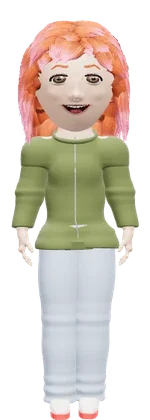
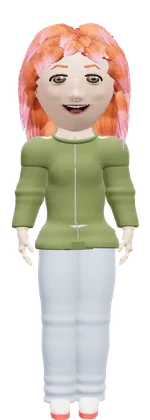
sumanova-us-107: natural hairline, visible partings, baby hairs and laid edges
- Edge + parting strip built as one shell; base cap uses the exact head-space
  direction only near the skin (skullDistDir, one pass)
- Measured vs us-106: hair build +29 %, triangles +1-15 % per style
- Starter pictures re-rendered; sculpt v100, thumbnails v39
- CLAUDE.md: user-story workflow and release naming

Claude-Session: https://claude.ai/code/session_011n7UBMF7siA6WHFHfiWuWV

Changed region(s): [[0.1067, 0.031, 0.88, 0.3714], [0.6133, 0.2476, 0.6933, 0.3405], [0.32, 0.3095, 0.3467, 0.3405]]

diff --git a/src/features/avatar/sculpt3d/groom.ts b/src/features/avatar/sculpt3d/groom.ts
@@ -1,5 +1,5 @@
 import * as THREE from 'three';
-import { deform, skullDir, skullDist, smooth, wobble, type HeadShape } from '../sculpt';
+import { deform, skullDir, skullDist, skullDistDir, smooth, wobble, type HeadShape } from '../sculpt';
 import type { HairP } from '../look/hair';
 import { rng, hashStr } from '../look/rng';
 import { Field, type Prim } from './sdf';
@@ -289,8 +289,8 @@ export class Groomer {
       if (p.braid !== 'none' && p.braid !== 'box' && p.braid !== 'cornrows') this.braids();
     }
     if (p.fade !== 'buzz' && !this.hatOn) this.edges();
-    const fade = this.fadeShell(), edge = this.hatOn ? null : this.edgeShell(), part = this.hatOn || p.fade === 'buzz' ? null : this.partShell();
-    const shells = [fade, edge, part].filter((g): g is THREE.BufferGeometry => !!g);
+    const fade = this.fadeShell(), edge = this.hatOn ? null : this.edgeShell();
+    const shells = [fade, edge].filter((g): g is THREE.BufferGeometry => !!g);
     return { strands: this.m.geometry(), cards: this.cards.geometry(), base: this.baseCap(), fade: shells.length > 1 ? mergeGeometries(shells) : shells[0] ?? null, band: this.bandGeo() };
   }
 
@@ -346,11 +346,18 @@ export class Groomer {
     const edgeBand = p.edges === 'clean' ? 0.05 : 0.1;
     const taper = (uy: number, az: number) => 0.2 + 0.8 * smooth(this.lineAt(az), this.lineAt(az) + edgeBand, uy);
     const thick = (uy: number, az = 0) => taper(uy, az) * (shell(uy, az) + this.cap * (p.braid === 'cornrows' ? 0.2 : p.tie !== 'none' || p.braid !== 'none' ? 0.6 + 1.6 * smooth(this.lineAt(az), this.lineAt(az) + 0.3, uy) : textured ? 1 + 1.2 * smooth(this.lineAt(az), this.lineAt(az) + 0.25, uy) : 1)) + (afro > 0 ? afro * R * (0.5 + 0.35 * Math.max(0, uy)) * smooth(this.lineAt(az), this.lineAt(az) + 0.45, uy) : 0);
+    const tmp4 = [0, 0, 0, 0];
     const prim: Prim = {
       t: 'fn', c: [0, h.ry * 0.2, -h.rz * 0.05], ext: [R * (1.3 + afro * 0.9), h.ry * (1.3 + afro * 0.9), h.rz * (1.4 + afro * 0.9)], bone: 0, k: 0,
       f: (x, y, z) => {
-        const [dx, uy, dz] = skullDir(h, x, y, z), az = Math.atan2(dx, dz);
-        let d = skullDist(h, x, y, z) - thick(uy, az);
+        const sdd = skullDistDir(h, x, y, z, tmp4);
+        const sd = sdd[0];
+        // far from the scalp layer: the exact head-space direction doesn't matter (saves most evaluations)
+        if (afro === 0 && sd > 0.12 * R) return sd - this.cap;
+        const dx = sdd[1], uy = sdd[2], dz = sdd[3], az = Math.atan2(dx, dz);
+        // inside the skull the layer is hidden: only the cut below the hairline matters
+        if (afro === 0 && sd < -0.025 * R) return Math.max(sd - this.cap, (this.lineAt(az) - uy) * h.ry * 0.9);
+        let d = sd - thick(uy, az);
         if (afro > 0) {
           // a rounder silhouette than the skull: blend toward a sphere over the crown
           const sph = Math.hypot(x, y - h.ry * 0.18, z + h.rz * 0.08) - R * (1.05 + afro * 0.62);
@@ -427,29 +434,29 @@ export class Groomer {
     const { h, p, R } = this;
     if (p.fade === 'buzz') return null;
     const [w, maxDens] = p.edges === 'clean' ? [0.025, 0.9] : p.edges === 'laid' ? [0.05, 0.8] : [0.06, 0.7];
+    const tmp4 = [0, 0, 0, 0];
+    const partOn = this.partGap(this.partX(0) || 0, 0.6, 0) !== -1;
     const f = new Field([{ prims: [{ t: 'fn', c: [0, 0, 0], ext: [R * 1.2, h.ry * 1.2, h.rz * 1.3], bone: 0, k: 0, f: (x, y, z) => {
-      const [dx, uy, dz] = skullDir(h, x, y, z), az = Math.atan2(dx, dz);
+      const sdd = skullDistDir(h, x, y, z, tmp4);
+      const sd = sdd[0] - 0.004 * R;
+      // away from the thin shell: outside (the field only needs to be right near the surface)
+      if (Math.abs(sd) > 0.05 * R) return Math.abs(sd);
+      const uy = sdd[2], az = Math.atan2(sdd[1], sdd[3]);
       const line = this.lineAt(az);
       const skip = this.faded(uy, az) || (p.flow === 'hawk' && Math.abs(x) > 0.2 * R);
-      return Math.max(skullDist(h, x, y, z) - 0.004 * R, (line - w - uy) * h.ry, (uy - line - 0.03) * h.ry, skip ? 1 : -1);
+      const band = Math.max(sd, (line - w - uy) * h.ry, (uy - line - 0.03) * h.ry, skip ? 1 : -1);
+      // + a faint strip of fine hair along the parting (scalp between hair, not a bare stripe)
+      if (!partOn) return band;
+      const g = this.partGap(x, y / h.ry, z);
+      if (g === -1) return band;
+      return Math.min(band, Math.max(sdd[0] - 0.003 * R, -g - 0.002 * R, (line + 0.01 - uy) * h.ry));
     } }] }], 0.02 * R, 0.1 * R);
-    return meshField(f, { cell: 0.008 * (R / 0.35), color: (x, y, z) => {
-      const [dx, uy, dz] = skullDir(h, x, y, z), az = Math.atan2(dx, dz);
+    return meshField(f, { cell: 0.009 * (R / 0.35), color: (x, y, z) => {
+      const [dx, uy, dz] = skullDir(h, x, y, z, 2), az = Math.atan2(dx, dz);
       const line = this.lineAt(az);
+      if (partOn && uy > line + 0.02 && this.partGap(x, y / h.ry, z) > -0.004 * R) return [0.3, 0, 0];
       return [smooth(line - w, line, uy) * maxDens, 0, 0];
     } });
-  }
-
-  /** a faint strip of fine hair along the parting, so it reads as scalp between hair, not a bare stripe */
-  partShell() {
-    const { h, R } = this;
-    if (this.partGap(0, 0.5, 0) === -1 && this.partGap(this.partX(0), 0.5, 0) === -1) return null;
-    const f = new Field([{ prims: [{ t: 'fn', c: [0, 0, 0], ext: [R * 1.2, h.ry * 1.2, h.rz * 1.3], bone: 0, k: 0, f: (x, y, z) => {
-      const g = this.partGap(x, y / h.ry, z);
-      const [dx, uy, dz] = skullDir(h, x, y, z);
-      return Math.max(skullDist(h, x, y, z) - 0.003 * R, g === -1 ? 1 : -g - 0.002 * R, (this.lineAt(Math.atan2(dx, dz)) + 0.01 - uy) * h.ry);
-    } }] }], 0.02 * R, 0.1 * R);
-    return meshField(f, { cell: 0.006 * (R / 0.35), color: () => [0.3, 0, 0] });
   }
 
   /** unit scalp direction from azimuth + unit height */
@@ -531,13 +538,13 @@ export class Groomer {
     const { h, p, R } = this;
     if (p.fade === 'none' && p.flow !== 'hawk') return null;
     const f = new Field([{ prims: [{ t: 'fn', c: [0, 0, 0], ext: [R * 1.2, h.ry * 1.2, h.rz * 1.3], bone: 0, k: 0, f: (x, y, z) => {
-      const [dx, uy, dz] = skullDir(h, x, y, z), az = Math.atan2(dx, dz);
+      const [dx, uy, dz] = skullDir(h, x, y, z, 2), az = Math.atan2(dx, dz);
       const shaved = this.faded(uy, az) || (p.flow === 'hawk' && Math.abs(x) > 0.2 * R);
       return Math.max(skullDist(h, x, y, z) - 0.005 * R, (this.lineAt(az) - 0.02 - uy) * h.ry, shaved ? -1 : 1);
     } }] }], 0.02 * R, 0.1 * R);
     const lvl = { none: 0, taper: -0.55, low: -0.3, mid: -0.05, high: 0.2, skin: 0.22, undercut: 0.3, sides: 0.3, buzz: 1 }[p.fade];
     return meshField(f, { cell: 0.009 * (R / 0.35), color: (x, y, z) => {
-      const uy = skullDir(h, x, y, z)[1];
+      const uy = skullDir(h, x, y, z, 2)[1];
       // density: full stubble near the hair, fading to skin at the bottom (skin fades go all the way)
       const dens = p.fade === 'buzz' ? 0.85 : p.fade === 'undercut' || p.fade === 'sides' ? 0.6 : smooth(lvl - (p.fade === 'skin' ? 0.35 : 0.6), lvl, uy);
       return [dens, 0, 0];

diff --git a/src/features/avatar/sculpt.ts b/src/features/avatar/sculpt.ts
@@ -63,10 +63,10 @@ export function deform(h: HeadShape, ux: number, uy: number, uz: number, out: TH
  * the coordinates hairlines and other scalp regions are defined in. (x/|p| differs from it on the
  * elongated, deformed head: on the forehead by several centimetres.)
  */
-export function skullDir(h: HeadShape, x: number, y: number, z: number): [number, number, number] {
+export function skullDir(h: HeadShape, x: number, y: number, z: number, iters = 4): [number, number, number] {
   const r = Math.sqrt(x * x + y * y + z * z) || 1e-6;
   let ux = x / r, uy = y / r, uz = z / r;
-  for (let i = 0; i < 4; i++) {
+  for (let i = 0; i < iters; i++) {
     const sx = h.rx * kxAt(h, uy, uz);
     const sy = h.ry * (y < 0 ? h.chinLow : 1);
     const sz = h.rz * (uy < 0 ? 1 - 0.1 * uy * uy : 1) * (uz < 0 ? 1.07 : 1);
@@ -75,6 +75,23 @@ export function skullDir(h: HeadShape, x: number, y: number, z: number): [number
     ux = qx / L; uy = qy / L; uz = qz / L;
   }
   return [ux, uy, uz];
+}
+
+/** skullDist and skullDir in one pass (out = [dist, ux, uy, uz]) — for hot SDF loops. */
+export function skullDistDir(h: HeadShape, x: number, y: number, z: number, out: number[]) {
+  const r = Math.sqrt(x * x + y * y + z * z) || 1e-6;
+  let ux = x / r, uy = y / r, uz = z / r, L = 1, sx = h.rx, sy = h.ry, sz = h.rz;
+  for (let i = 0; i < 4; i++) {
+    sx = h.rx * kxAt(h, uy, uz);
+    sy = h.ry * (y < 0 ? h.chinLow : 1);
+    sz = h.rz * (uy < 0 ? 1 - 0.1 * uy * uy : 1) * (uz < 0 ? 1.07 : 1);
+    const qx = x / sx, qy = y / sy, qz = z / sz;
+    L = Math.sqrt(qx * qx + qy * qy + qz * qz) || 1e-6;
+    ux = qx / L; uy = qy / L; uz = qz / L;
+  }
+  out[0] = (L - 1) * Math.sqrt((ux * sx) ** 2 + (uy * sy) ** 2 + (uz * sz) ** 2);
+  out[1] = ux; out[2] = uy; out[3] = uz;
+  return out;
 }
 
 export function skullDist(h: HeadShape, x: number, y: number, z: number) {

diff --git a/src/features/avatar/editor/thumbs.tsx b/src/features/avatar/editor/thumbs.tsx
@@ -60,7 +60,7 @@ const cache = new Map<string, string>();
  * opens instantly on later visits. Bump the version whenever the renderer
  * changes how variants look.
  */
-const STORE = 'snv-thumbs-v38';
+const STORE = 'snv-thumbs-v39';
 const storeKey = (key: string) => `/__thumb/${encodeURIComponent(key)}`;
 async function fromStore(key: string): Promise<string | null> {
   try {

diff --git a/src/features/avatar/sculpt3d/jobs.ts b/src/features/avatar/sculpt3d/jobs.ts
@@ -22,7 +22,7 @@ export type Job =
   | { k: 'head'; h: HeadShape; nose: NoseP | null; ears: EarP };
 
 /** Bump when any sculpt builder changes its output (invalidates the on-device cache). */
-export const SCULPT_VERSION = 97;
+export const SCULPT_VERSION = 100;
 
 const r3 = (n: number) => Math.round(n * 1000) / 1000;
 export function jobKey(j: Job): string {

diff --git a/CLAUDE.md b/CLAUDE.md
@@ -177,6 +177,14 @@ activity-aliases + `AppIconPlugin`). Only open item: closed-app Android push (ow
 - plpgsql gotcha: wrap `case … then … end` in parentheses inside `if … then`; avoid the `?` jsonb operator in MCP
   migrations; never count the same table inside its own RLS policy (use a trigger).
 
+## User stories (owner, 2026-11-28)
+From build-106 on, work follows the avatar user stories in `docs/user-stories/sumanova-us-NNN.txt` (one file per story,
+index in README.txt), in order. Put the story id (`sumanova-us-NNN`) in the commit message: the release workflow names
+each download after the newest story id in non-docs commits ("SUMANOVA us-NNN · build-N"). Docs-only pushes don't build.
+Use `[skip ci]` for in-progress pushes. Hair edges/parting (us-107): `HairP.edges`, `HairTune.line/edges`; hairline
+regions are found in head space with `skullDir`/`skullDistDir` (x/|p| is centimetres off on the forehead).
+Harness: `&htune=<json>` / `&htunes=<json>|<json>` / `&skin=<hex>` / `&hc=<hex>`.
+
 ## Sandbox limits (this cloud environment)
 Outbound network to supabase.co / vercel.app is blocked from the shell; use Supabase MCP (`execute_sql`) and Vercel
 MCP (`web_fetch_vercel_url`) to verify. No Android SDK locally — Android builds run on GitHub Actions.
